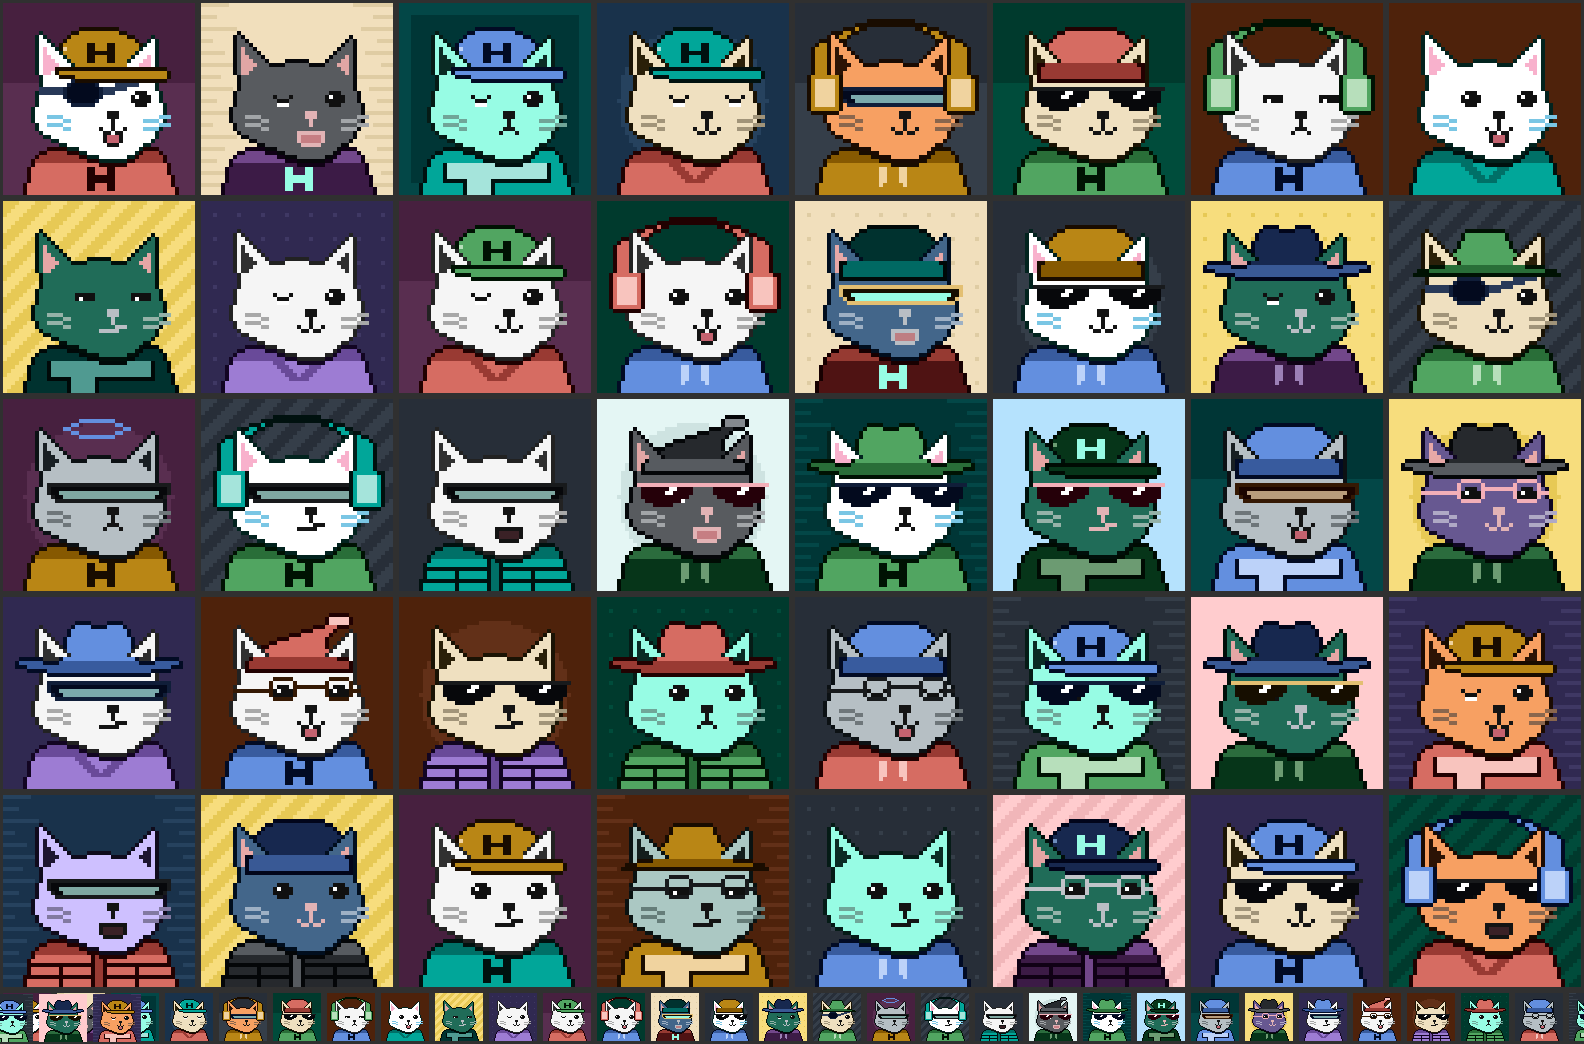
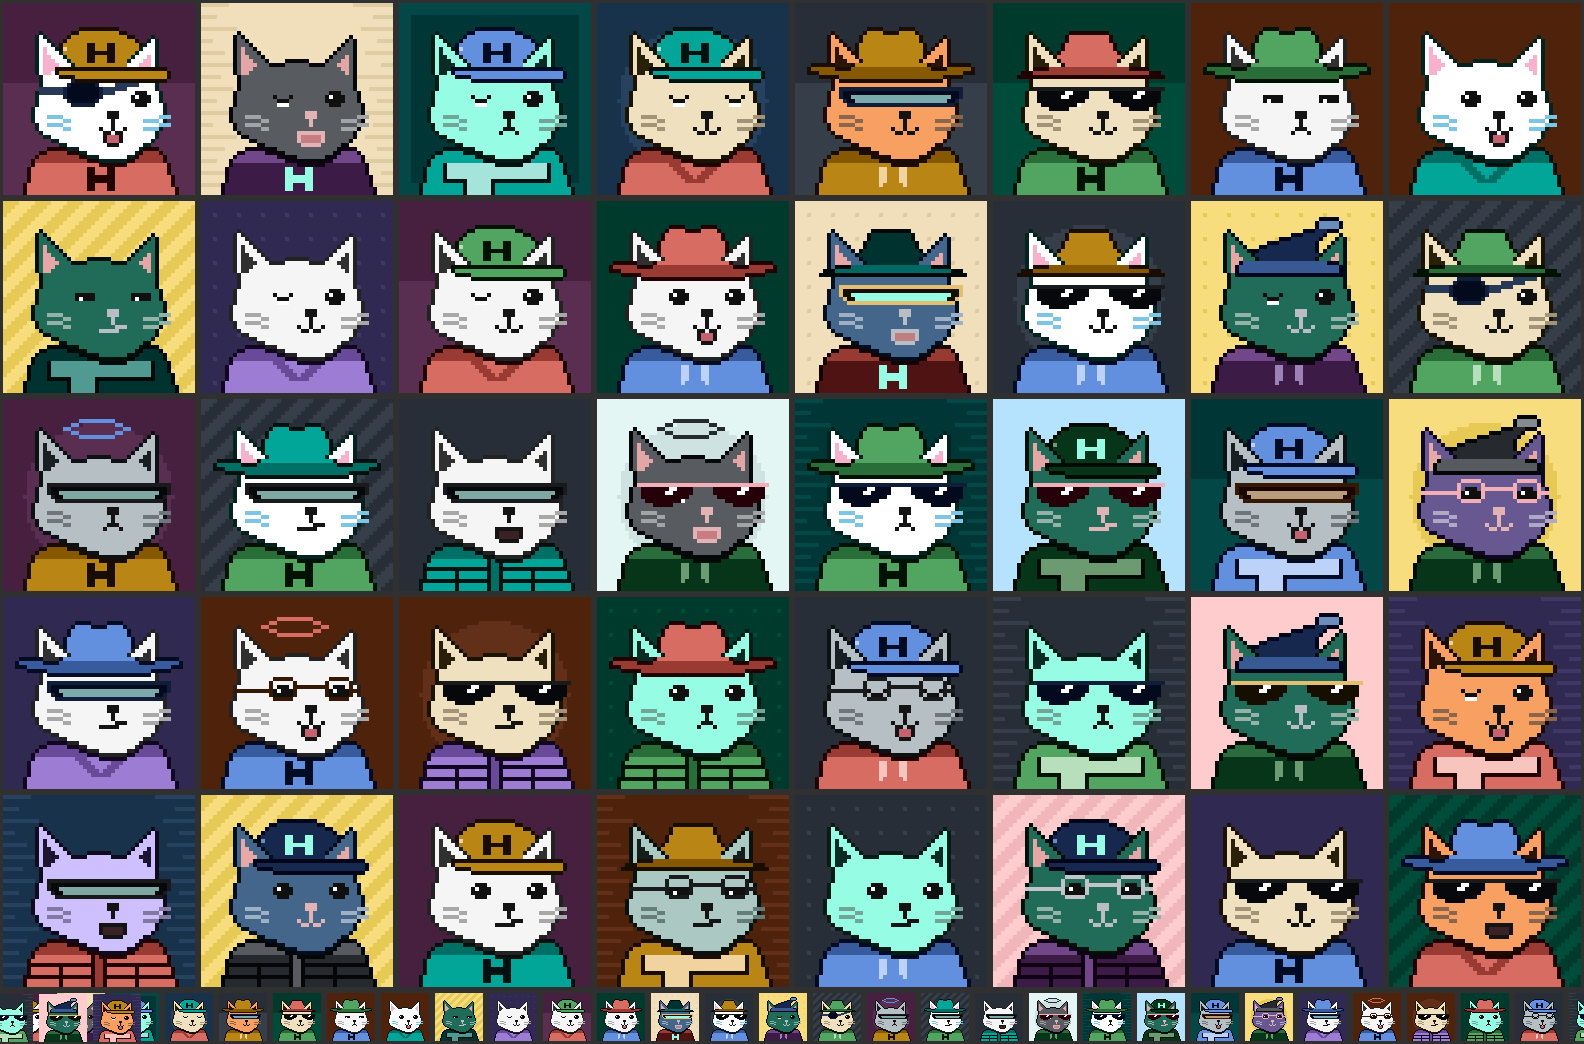
Drop the beanie, the headphones and the mortarboard
Three hats that each lost a fight with the shape of the head underneath them.

The beanie was a dome over a cuff, which is the bucket hat with the brim swapped
for a band. Every fix that made it read better made it look more like the bucket,
and the last one -- lowering the crown so it hugged the skull -- landed it exactly
on the bucket's outline.

The mortarboard has no workable height. Its board has to clear the ear tips, since
a board with two bites out of it is not a board; once it clears them the board and
the ears frame the crown and the frame is what you see. Drop it far enough to close
that gap and it is back on the ears.

The headphones read well and cost too much for it. Band plus two cups is the widest
thing in the set and wraps the cat from row 3 to row 26, so at small sizes the
silhouette stopped being a cat wearing something and became a blob with a face in
it. The note about why cups cannot go over a cat's ears is kept where the trait was,
in case it is ever attempted again.

diff --git a/packages/hyper-identicons/src/art/data/headwear.ts b/packages/hyper-identicons/src/art/data/headwear.ts
@@ -2,11 +2,8 @@
 export const headwear: Record<string, string> = {
   "none": 'AAABAQEA',
[1 lines of base64/hex data omitted]
-  "beanie": 'BgsOGwcADQEMAAIBDQYCAQkAAQERBgEBBwABARMGAQEFAAEBFQYGABQGCAASBgoAEAYMAA4GBwACARcHAwEZBwIBGQcCARkHHAE=',
[1 lines of base64/hex data omitted]
-  "headphones": 'BAMYKw8ADAEcABIBFgADAQEGAgEMAAIBAQYDAREAAgECBgIBEAACAQIGAgEQAAIGAQEUAAEBAgYBAAIBCQACAQQAAQEWAAEBAwABBgIBBgABAQIGHwADBgEBBAABAQMGHwAEBgEBAwABAQMGHwAEBgEBAwABAQMGHwAEBgEBAwABAQMGHwAEBgEBAwABAQMGHwAEBgEBAwABAQMGHwAEBgEBAwABAQMGHwAEBgEBAgABAQcGAQEZAAEBBgYDAQEGBQgBBgEBGQABAQEGBQgBBgIBAQYFCAEGAQEZAAEBAQYFCAEGAgEBBgUIAQYBARkAAQEBBgUIAQYCAQEGBQgBBgEBGQABAQEGBQgBBgIBAQYFCAEGAQEZAAEBAQYFCAEGAgEBBgUIAQYBARkAAQEBBgUIAQYCAQEGBQgBBgEBGQABAQEGBQgBBgIBBwYBARkAAQEHBgEBAQAHARsABwEBAA==',
[2 lines of base64/hex data omitted]
   "nightcap": 'BAsPGxUABQEVAAEBBQgBARQAAQEFCAEBEQADAQMGAwEPAAMBBQYBAQ8AAwEHBgEBDQADAQkGAQEMAAIBDAYBAQoAAgEOBgEBCwAQBgwADgYIAAEBFQcDAQEAAQEZBwIBGQccAQ==',
   "halo": 'BQ8FEQQACQYGAAIGCQACBgIAAgYNAAIGAgACBgkAAgYGAAkGBAA=',
 };

diff --git a/packages/hyper-identicons/src/art/manifest.ts b/packages/hyper-identicons/src/art/manifest.ts
@@ -70,14 +70,11 @@ export const MANIFEST: Manifest = {
     id: 'headwear',
     art: [
       { id: "none", name: "None", weight: 26 },
-      { id: "cap-h", name: "Hyper Cap", weight: 22 },
-      { id: "beanie", name: "Beanie", weight: 18 },
-      { id: "bucket", name: "Bucket", weight: 12 },
-      { id: "headphones", name: "Headphones", weight: 10 },
-      { id: "cowboy", name: "Meowdy", weight: 9 },
-      { id: "mortarboard", name: "Purrfessor", weight: 7 },
-      { id: "nightcap", name: "Nightcap", weight: 5 },
-      { id: "halo", name: "Halo", weight: 3 },
+      { id: "cap-h", name: "Hyper Cap", weight: 24 },
+      { id: "bucket", name: "Bucket", weight: 18 },
+      { id: "cowboy", name: "Meowdy", weight: 14 },
+      { id: "nightcap", name: "Nightcap", weight: 10 },
+      { id: "halo", name: "Halo", weight: 6 },
     ],
     colorways: COLORWAYS.headwear,
   },

diff --git a/tools/make-traits.py b/tools/make-traits.py
@@ -419,52 +419,15 @@ emit("headwear/cap-h.txt", hat({
     18: [(18, 40, "a")],
 }, crown=range(0, 15)), "# The reference cap. Slots: a shell, c seam, h logo, o ink.")
 
-# No bobble. Every version with one read as a lidded pot: a small ball needs its
-# own ink ring to be a ball at all, and that ring plus the crown's meet in a dark
-# neck that the eye takes for a handle. The pom lives on its own trait instead,
-# where it can sit clear of the crown.
-# Beanie, bucket and cap were three versions of the same shallow dome plus a
-# horizontal bar, and at 48px they were not telling each other apart. The beanie
-# is the one that hugs the skull: it goes wide almost immediately and then runs
-# straight down, so the top is a curve. The bucket is the straight-sided cone with
-# the flat top and the cap is a shell with a peak swept off one side.
-#
-# Low and wide, not tall and narrow. Twelve rows of crown starting at row 2 and
-# widening the whole way is a cone, which is both the bucket's shape and, perched
-# above a cuff, a bowler -- it read as a small hard hat sitting on the cat rather
-# than knitwear pulled onto it. A beanie has no crown to speak of; it is the shape
-# of the head underneath.
-#
-# Only the crown is cut. The cuff is knit and pulled down over the ear bases, so
-# it passes in front of them and the tips come out through the crown above it,
-# which is what a beanie on a cat looks like and also gives the ears somewhere to
-# be other than sliced off at the hairline.
-emit("headwear/beanie.txt", hat({
-    5: [(18, 30, "a")],
-    6: [(16, 32, "a")],
-    7: [(15, 33, "a")],
-    8: [(14, 34, "a")],
-    9: [(13, 35, "a")],
-    10: [(13, 35, "a")],
-    11: [(13, 35, "a")],
-    12: [(13, 35, "a")],
-    13: [(13, 35, "a")],
-    # The cuff overhangs the crown by two columns a side and is five rows deep, so
-    # inked() leaves three of colour rather than one. Flush with the crown and two
-    # rows deep it was a hatband, and a dome plus a hatband is a bowler.
-    14: [(11, 37, "b")],
-    15: [(11, 37, "b")],
-    16: [(11, 37, "b")],
-    17: [(11, 37, "b")],
-    18: [(11, 37, "b")],
-}, crown=range(0, 14)), "# Knit beanie, ears through the cuff. Slots: a crown, b cuff.")
+# No beanie. It was a dome over a cuff, which is the bucket hat with the brim
+# swapped for a band, and the two never stopped competing: every fix that made the
+# beanie read better made it look more like the bucket, and the last one -- lowering
+# the crown so it hugged the skull -- landed it right back on the bucket's outline.
+# One dome-shaped hat is enough.
 
-# A flat-topped truncated cone, which is what a bucket hat actually is and what
-# finally tells it apart from the beanie. Both were rounded domes over a
-# horizontal band, and no amount of adjusting the band fixed that -- the
-# difference has to be in the crown, because at 48px the crown is most of what
-# there is. The beanie keeps the dome; this one goes flat on top and widens all
-# the way down into a short brim.
+# A flat-topped truncated cone, which is what a bucket hat actually is. It goes flat
+# on top and widens all the way down into a short brim, so it is not the cap's shell
+# with a peak swept off one side and it is not the cowboy's creased crown either.
 emit("headwear/bucket.txt", hat({
     6: [(19, 28, "a")],
     7: [(18, 29, "a")],
@@ -540,31 +503,11 @@ emit("headwear/cowboy.txt", hat(merge(
     },
 ), crown=range(0, 14)), "# Meowdy. Slots: a creased crown, b brim.")
 
-# The board is flat and wide and does all the work. It has to clear the ear tips
-# outright rather than be clipped around them -- a board with two bites out of it
-# is not a board -- so it rides above row 6 and the crown drops into the gap
-# between the ears, where it needs almost no clipping at all. The tassel hangs
-# past column 38, the furthest the far ear reaches.
-emit("headwear/mortarboard.txt", hat(merge(
-    # Four rows of board, not three. inked() takes the outer ring, so three rows
-    # leaves a single row of colour and the board comes out as a drawn line rather
-    # than a slab. It also reaches column 41 so the cord hangs off the board's own
-    # corner: at 39 the two were diagonal neighbours, inked() treated them as
-    # separate shapes, and the tassel floated free beside the hat.
-    #
-    # Riding one row lower and pulled in at the ends. High and very wide, board
-    # and ears together made a squared arch with the crown lost inside it -- the
-    # frame read as the object. Closing the gap and widening the crown puts the
-    # mass back under the board, which is the whole shape of a mortarboard.
-    {y: [(11, 41, "a")] for y in range(4, 8)},
-    {y: [(15, 32, "a")] for y in range(8, 16)},
-    # The cord alone is invisible: two pixels wide, so every one of them is an
-    # edge and inked() paints the lot the ink colour, right beside the far ear's
-    # own ink line. It needs a terminal mass wide enough to keep an interior, and
-    # it has to hang clear of column 38, which is as far as the ear reaches.
-    {y: [(40, 42, "c")] for y in range(8, 13)},
-    {y: [(39, 43, "c")] for y in range(13, 17)},
-), crown=range(8, 16)), "# Purrfessor. Slots: a board and crown, c tassel.")
+# No mortarboard. A wide flat board over a crown needs the board to clear the ear
+# tips outright, because a board with two bites out of it is not a board -- and once
+# it clears them, the board and the ears together frame the crown and the frame is
+# what reads: a squared arch with a hat lost inside it. Dropping it low enough to
+# close that gap puts it back on the ears. There is no height that works.
 
 # Drooping to the far side, which is where the asymmetry earns its keep: almost
 # everything else worn here is bilateral, and the cat is not.
@@ -586,36 +529,17 @@ emit("headwear/nightcap.txt", hat({
     17: [(11, 37, "b")],
 }, crown=range(0, 14)), "# Nightcap with a pom. Slots: a cone, b cuff, c pom.")
 
-# A hoop that goes round the head, with the ears left in front of it.
+# No headphones. The last version read well -- band arcing over and clipped behind
+# the ears, cups dropped to cheek height where a hoop would rest on a round skull --
+# but reading well cost it the whole outline of the head. The band plus two cups is
+# the widest thing in the set by some margin and it wraps the cat from row 3 to row
+# 26, so on a small render the silhouette stopped being a cat in headphones and
+# became a rounded blob with a face in it.
 #
-# Two earlier versions put the cups up at ear height. The first sat them on top of
-# the ears with the arms diving in from outside, which read as two speakers
-# clamped on pointing at the floor; the second made them big enough to enclose the
-# ears, which is what real over-ear cups do and which deleted the ears, and with
-# them most of what makes the silhouette a cat. There is no third position up
-# there: the tips sit at columns 9 and 37, the outside edge of the skull, which is
-# exactly the line an arm has to come down.
-#
-# So the cups drop to the sides of the head at cheek height, where a hoop would
-# actually rest on a round skull, and the band is clipped against the ears like
-# any other hat so it passes behind them. Anatomically it is on-ear rather than
-# over-ear. It reads instantly, which the correct version did not.
-emit("headwear/headphones.txt", hat({
-    3: [(18, 29, "a")],
-    4: [(15, 32, "a")],
-    5: [(12, 17, "a"), (30, 35, "a")],
-    6: [(10, 15, "a"), (32, 37, "a")],
-    7: [(8, 13, "a"), (34, 39, "a")],
-    8: [(6, 12, "a"), (35, 41, "a")],
-    9: [(5, 11, "a"), (36, 42, "a")],
-    **{y: [(4, 10, "a"), (37, 43, "a")] for y in range(10, 17)},
-    # The far cup starts at 37, not 36. At 36 it took a column off the far eye's
-    # rim, and a cup overlapping an eye is a blindfold.
-    17: [(3, 11, "a"), (37, 45, "a")],
-    **{y: [(3, 11, "a"), (5, 9, "c"), (37, 45, "a"), (39, 43, "c")] for y in range(18, 25)},
-    25: [(3, 11, "a"), (37, 45, "a")],
-    26: [(4, 10, "a"), (38, 44, "a")],
-}, crown=range(0, 17)), "# Headphones. Slots: a band and cups, c pads.")
+# Worth remembering if it ever comes back: cups cannot go over a cat's ears. The
+# tips sit at columns 9 and 37, the outside edge of the skull, which is exactly the
+# line the band's arm has to come down. On top of the ears they read as two speakers
+# pointing at the floor; big enough to enclose the ears they delete them.
 
 print("clothing:")
 # Only rows 32-46 of the torso ever reach the canvas, and the chin eats the middle
